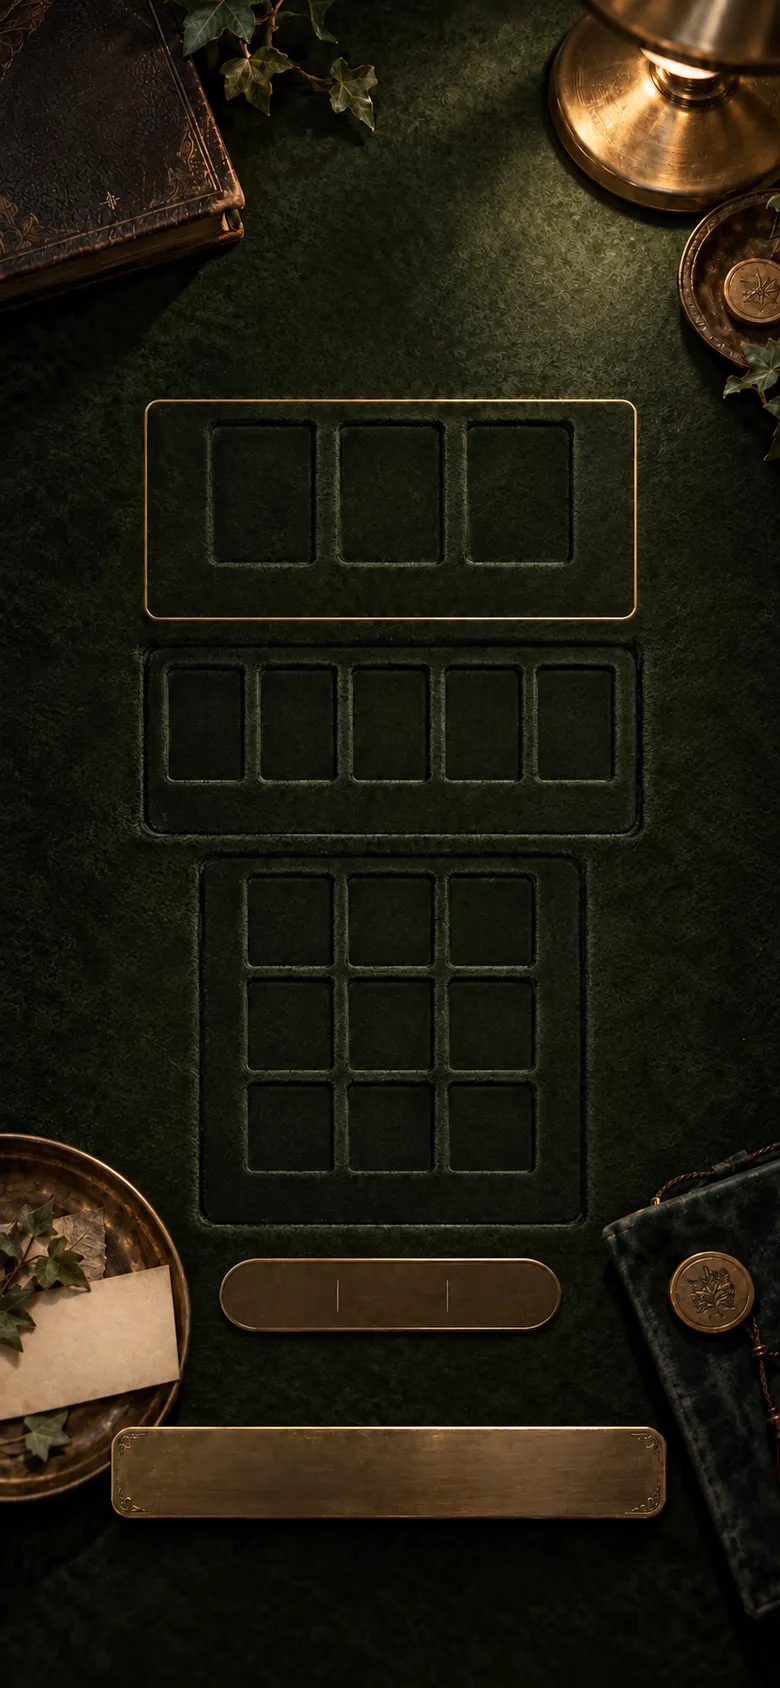
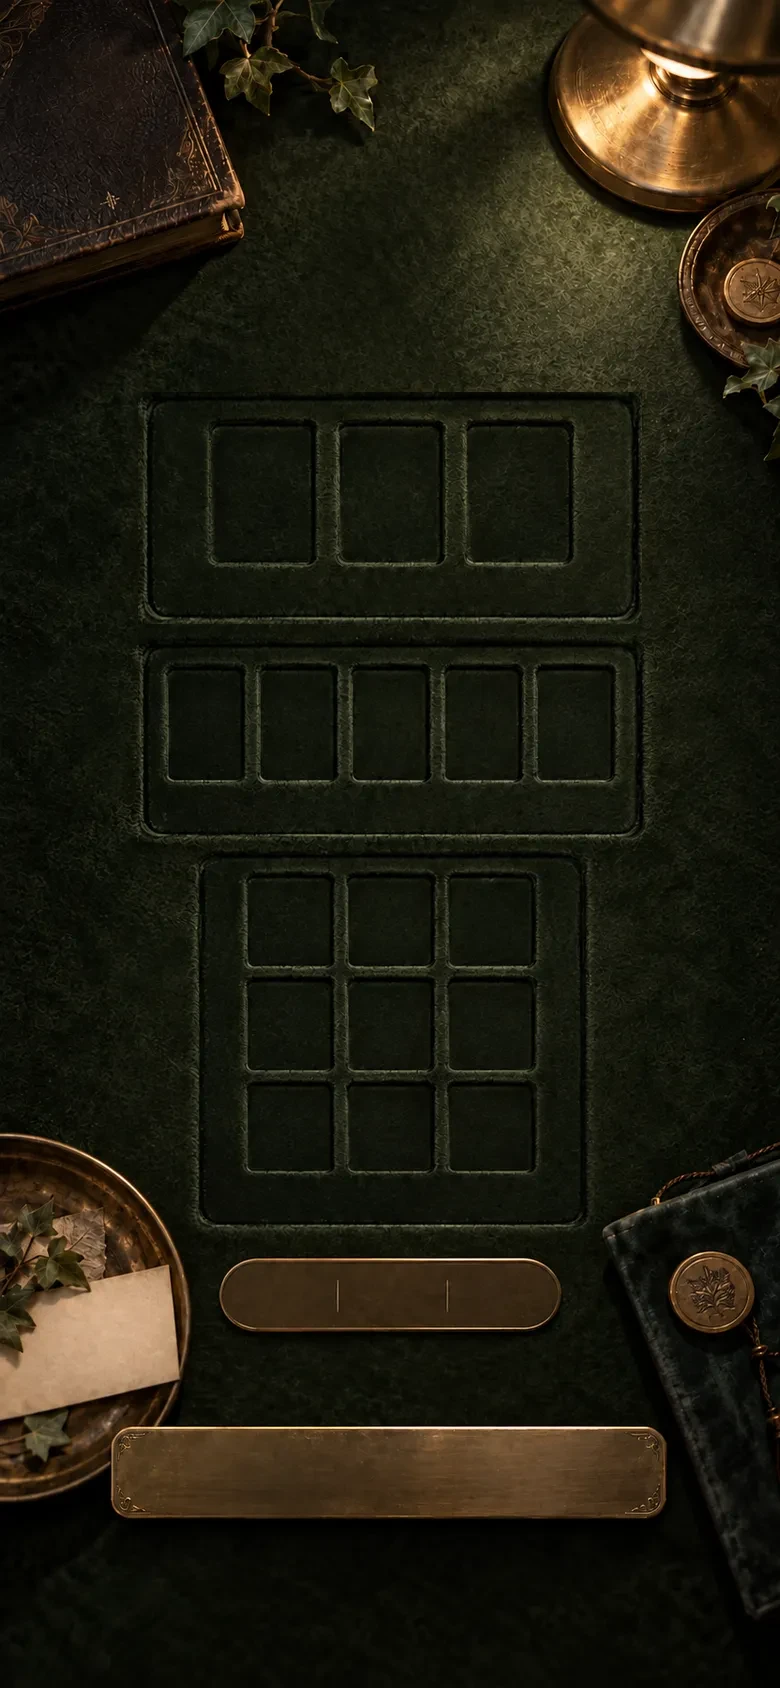
Mobile QA: flip tap queues until cards land; touch-action manipulation; textarea scrollbars hidden; tagline/counter fit; topic auto-detect from question; topic ornament erased; facts sheet paper field + close ×; spread plate baked gold rim removed; 9-card links clear of slots; deeper sheet action ro

Changed region(s): [[0.3385, 0.2156, 0.8308, 0.3697], [0.1846, 0.2156, 0.3077, 0.3697]]

diff --git a/app.js b/app.js
@@ -157,9 +157,9 @@ const qtext=(q,fb)=>esc(q||fb);
 function vLanding(){const m=M();const ok=S.q.trim().length>=4;
  const v=m?stage('01-landing',
   T_(195,193,'尚未说出的事',12.5,{cls:'c',st:'letter-spacing:.3em'})+
-  `<label class="sr" for="q">写下你想问的事</label><textarea id="q" class="A qin" maxlength="600" placeholder="写下你想问的事…" style="left:84px;top:356px;width:246px;height:150px;font:400 25px/1.55 var(--brush)">${esc(S.q)}</textarea>`+
-  A(320,505,`<span id="cnt">${S.q.length}</span>/600`,{cls:'en ink2',st:'transform:translateX(-100%);font-size:12px;font-style:italic'})+
-  T_(195,548,chalkText('有些答案，一直在等你。'),18,{cls:'c chalk'})+chalkSVG('M2 14 Q90 2 200 6',220,95,568,210,18,900)+
+  `<label class="sr" for="q">写下你想问的事</label><textarea id="q" class="A qin" maxlength="600" placeholder="写下你想问的事…" style="left:84px;top:356px;width:232px;height:140px;font:400 25px/1.55 var(--brush)">${esc(S.q)}</textarea>`+
+  A(312,494,`<span id="cnt">${S.q.length}</span>/600`,{cls:'en ink2',st:'transform:translateX(-100%);font-size:12px;font-style:italic'})+
+  T_(195,548,chalkText('有些答案，一直在等你。'),16,{cls:'c chalk'})+chalkSVG('M2 14 Q90 2 200 6',220,95,568,210,18,900)+
   A(103,656,'把问题压在桌上 <span aria-hidden="true">→</span>',{tag:'button',cls:'btn hit',w:184,h:44,st:'font-size:15px',at:`id="go" aria-disabled="${!ok}"`})+
   `<a class="A t c mu" href="#/ask" style="left:195px;top:712px;font-size:11px;border-bottom:1px dashed;letter-spacing:.14em">或者先借一句问法</a>`,{ch:{by:103,tabs:true}})
  :stage('01-landing',
@@ -170,10 +170,11 @@ function vLanding(){const m=M();const ok=S.q.trim().length>=4;
   `<a class="A t c mu" href="#/ask" style="left:803px;top:736px;font-size:12.5px;border-bottom:1px dashed;letter-spacing:.16em">或者先借一句问法</a>`,
   {ch:{bl:['36 张卡牌','无预设的未来','只有更清晰的你']}});
  markDrawn(v);
- const q=$('#q'),go=$('#go');q.addEventListener('input',()=>{S.q=q.value;$('#cnt').textContent=q.value.length;go.setAttribute('aria-disabled',q.value.trim().length<4);save()});
+ const q=$('#q'),go=$('#go');q.addEventListener('input',()=>{S.q=q.value;S.topicSet=false;$('#cnt').textContent=q.value.length;go.setAttribute('aria-disabled',q.value.trim().length<4);save()});
  go.onclick=()=>{if(q.value.trim().length<4){toast(q.value.trim()?'再多写几个字，让问题更具体一点':'先写下你想问的事');q.focus();!RM()&&q.animate([{transform:'translateX(-5px)'},{transform:'translateX(5px)'},{transform:'none'}],{duration:260});return}if(!RM())q.animate([{transform:'translateY(0)'},{transform:'translateY(-6px)',offset:.4},{transform:'none'}],{duration:380,easing:'cubic-bezier(.22,.61,.36,1)'});Sound.tap();setTimeout(()=>go2('#/topic'),RM()?0:400)};
 }
-function vTopic(){const m=M();
+const guessTopic=q=>{const K=[['career',/工作|事业|职业|老板|同事|面试|升职|跳槽|offer|公司|项目|创业|考试|学业/i],['wealth',/钱|财|投资|收入|理财|股|债|买房|存款|生意/],['decision',/选择|还是|要不要|该不该|去留|决定|搬家|出国/],['relationship',/感情|恋|婚|爱|他|她|伴侣|对象|分手|复合|暧昧|家人|朋友|关系/]];for(const[k,r]of K)if(r.test(q||''))return k;return null};
+function vTopic(){const m=M();if(!S.topicSet){const g=guessTopic(S.q);if(g&&T.some(t=>t.id===g)){S.topic=g;save()}}
  const tpl=()=>{const L=TPL.filter(t=>t.domain===S.topic);if(!L.length)return[];const o=(S.so||0)%L.length;return[0,1,2].map(i=>L[(o+i)%L.length]).filter((x,i,a)=>a.indexOf(x)===i)};
  const TD=m?{tiles:[[40,265,150,75],[203,265,147,75],[40,348,150,74],[203,348,147,74],[40,430,150,73],[203,430,147,73]],lbY:52,lbF:12.5,slips:[[92,537,223,34],[100,574,213,32],[108,610,205,34]],sF:11}
   :{tiles:[[489,281,167,112],[684,281,167,112],[489,413,167,112],[684,413,167,112],[489,545,167,112],[684,545,167,112]],lbY:74,lbF:14,slips:[[905,298,305,96],[930,421,276,74],[910,505,252,80]],sF:15};
@@ -196,7 +197,7 @@ function vTopic(){const m=M();
   A(560,712,'带着问题，继续 <span aria-hidden="true">→</span>',{tag:'button',cls:'btn hit',w:301,h:53,st:'font-size:19px',at:`id="go"`})+
   T_(708,786,'让一个清晰的问题，成为仪式的开始。',12.5,{cls:'c mu'}),{ch:{bl:['36 张卡牌','无预设的未来','只有更清晰的你']}});
  markDrawn(v);
- v.addEventListener('click',e=>{const b=e.target.closest('.tile');if(b){S.topic=b.dataset.id;save();$$('.tile').forEach(x=>x.setAttribute('aria-checked',x===b));$('#slips').innerHTML=slips();return}
+ v.addEventListener('click',e=>{const b=e.target.closest('.tile');if(b){S.topic=b.dataset.id;S.topicSet=true;save();$$('.tile').forEach(x=>x.setAttribute('aria-checked',x===b));$('#slips').innerHTML=slips();return}
   const s=e.target.closest('.slip');if(s){S.q=s.dataset.t;save();$('#qq').textContent=S.q;!RM()&&$('#qq').animate([{opacity:.2,transform:'translateY(-6px)'},{opacity:1,transform:'none'}],{duration:380,easing:'ease-out'})}});
  $('#facts')&&($('#facts').oninput=e=>{S.facts=e.target.value;$('#fcnt').textContent=S.facts.length;save()});
  $$('.swap').forEach(b=>b.onclick=()=>{S.so=(S.so||0)+3;save();$('#slips').innerHTML=slips();!RM()&&$$('#slips .slip').forEach((x,i)=>x.animate([{opacity:0,transform:'translateX(14px)'},{opacity:1,transform:'none'}],{duration:360,delay:i*60,easing:'ease-out',fill:'backwards'}))});
@@ -234,7 +235,7 @@ function vDraw(){if(!S.spread)return go2('#/spread');const sp=SPREADS[S.spread],
  const v=m?stage('04-draw',`<div id="stage" class="A" style="inset:0">${slotsH}</div>`+
    T_(318,180,chalkText('画圈洗牌'),15,{cls:'chalk',st:'transform:rotate(14deg)'})+chalkSVG('M70 10 Q-10 60 20 170 M14 160 L20 172 L28 162',260,40,158,80,180,200)+chalkSVG('M10 0 Q80 40 40 165 M34 155 L40 167 L48 157',240,300,190,80,180,500)+
    T_(195,503,'<span id="cnt">画圈洗牌</span>',16,{cls:'c chalk'})+chalkSVG('M0 6 Q60 -2 120 8',130,135,530,120,12,300)+
-   A(88,737,'替我洗牌',{tag:'button',cls:'btn hit',w:212,h:43,st:'font-size:16px;z-index:900',at:'id="act"'})+`<p class="A t backs" style="left:195px;top:704px;transform:translateX(-50%);font-size:11.5px;z-index:900"><a href="#/spread">‹ 更换牌阵</a><span>·</span><a href="#/">修改问题</a></p>`,{ch:{by:72,bfs:28,foot:true}})
+   A(88,737,'替我洗牌',{tag:'button',cls:'btn hit',w:212,h:43,st:'font-size:16px;z-index:900',at:'id="act"'})+`<p class="A t backs" style="left:195px;top:${S.spread==='nine'?716:704}px;transform:translateX(-50%);font-size:11.5px;z-index:900"><a href="#/spread">‹ 更换牌阵</a><span>·</span><a href="#/">修改问题</a></p>`,{ch:{by:72,bfs:28,foot:true}})
  :stage('04-draw',`<div id="stage" class="A" style="inset:0">${slotsH}</div>`+
    T_(880,82,'洗牌与抽牌',22,{cls:'c',st:'text-shadow:none;color:#2b2116;transform:translateX(-50%) rotate(-3deg);letter-spacing:.2em'})+T_(886,122,'静下心，让指尖带你找到答案。',13,{cls:'c',st:'text-shadow:none;color:#4a3b28;transform:translateX(-50%) rotate(-3deg)'})+
    A(979,212,'有些答案，<br>并不在远方，而在你愿意停下来的此刻。',{cls:'t',st:'font-size:12.5px;line-height:1.95'})+A(1207,262,'—— &nbsp;寂境 &nbsp;Stillrealm',{cls:'t',st:'transform:translateX(-100%);font-size:12px'})+
@@ -280,7 +281,7 @@ function vDraw(){if(!S.spread)return go2('#/spread');const sp=SPREADS[S.spread],
   b.spring(s.x+(s.w-cw*sc)/2,s.y+(s.h-ch*sc)/2,0,RM()?3000:260,.55);b.tz=0;b.zi=300;World.start()}
  act.onclick=()=>{if(phase==='shuffle'){if(RM())return toFan();let n=0;const it=setInterval(()=>{swirl=Math.min(2.5,swirl+.5);World.start();if(++n>14){clearInterval(it);setTimeout(toFan,450)}},60);return}
   if(phase==='fan'){const free=shuffle(bodies.filter(b=>b.placed==null&&!bodies.slice(0,m?18:16).includes(b)));let k=0;for(let i=0;i<N;i++){if(slots()[i].dataset.full)continue;const b=free[k++];setTimeout(()=>place(b,i),RM()?0:k*240)}return}
-  const ids=S.picked.slice(0,N);if(ids.length<N||ids.some(x=>!x))return;const rec={id:Date.now().toString(36),at:Date.now(),topic:S.topic,q:S.q,facts:S.facts,spread:S.spread,ids};
+  const ids=S.picked.slice(0,N);if(ids.length<N||ids.some(x=>!x)){if(!act._q&&$$('.slot[data-full]').length+N>N){act._q=1;act.classList.add('busy');const t0=Date.now(),w=setInterval(()=>{const r=S.picked.slice(0,N);if(r.length>=N&&!r.some(x=>!x)){clearInterval(w);act._q=0;act.classList.remove('busy');act.onclick()}else if(Date.now()-t0>3000){clearInterval(w);act._q=0;act.classList.remove('busy')}},80)}return}const rec={id:Date.now().toString(36),at:Date.now(),topic:S.topic,q:S.q,facts:S.facts,spread:S.spread,ids};
   sessionStorage.setItem('sr.current',JSON.stringify(rec));loading(()=>go2('#/reading/'+rec.id))};
  cleanup.push(()=>World.clear());
 }
@@ -429,7 +430,7 @@ function vHistory(){const hs=LS.get('history',[]),m=M();const fmt=t=>{const d=ne
     T_(g.cap[0],g.cap[1]+oy,capt(r).join('<br>'),13,{cls:'',st:'line-height:1.9;letter-spacing:.14em'})+`<button class="del t" data-del="${r.id}" style="left:${g.t[0]+g.t[2]-30}px;top:${g.t[1]+g.t[3]+10+oy}px" aria-label="删除这条记录">删去</button>`}});
  let path='';if(hs.length>1){const pts=hs.slice(0,m?3:4).map((r,i)=>m?[MD[i].t[0]+MD[i].t[2]/2,MD[i].t[1]+MD[i].t[3]+8]:[D[i].c[0]+D[i].c[2]+40,D[i].c[1]+D[i].c[3]/2]);
   path=`<svg class="A" style="left:0;top:0;width:${m?390:1440}px;height:${H}px;pointer-events:none" aria-hidden="true"><path d="M${pts.map(p=>p.join(' ')).join(' L')}" fill="none" stroke="rgba(240,236,224,.5)" stroke-width="1.4" stroke-dasharray="3 7" stroke-linecap="round"/></svg>`}
- const h=m?T_(195,172,'来路余痕',22,{cls:'c',st:'letter-spacing:.24em'})+T_(195,207,'每一次提问，都是你走过的痕迹。',10.5,{cls:'c mu'})+(hs.length?A(300,180,'清空',{tag:'button',cls:'btn',w:57,h:22,st:'font-size:12px;letter-spacing:.2em;border-radius:12px;box-shadow:inset 0 0 0 1px #8a6a3a;background:rgba(60,40,15,.6)',at:'id="clear"'}):'')+path+body
+ const h=m?T_(195,172,'来路余痕',22,{cls:'c',st:'letter-spacing:.24em'})+T_(195,207,'每一次提问，都是你走过的痕迹。',10.5,{cls:'c mu'})+(A(300,180,'清空',{tag:'button',cls:'btn',w:57,h:22,st:'font-size:12px;letter-spacing:.2em;border-radius:12px;box-shadow:inset 0 0 0 1px #8a6a3a;background:rgba(60,40,15,.6)',at:(hs.length?'':'disabled aria-disabled="true" ')+'id="clear"'}))+path+body
   :A(500,70,'来路余痕',{cls:'ink',st:'font-size:32px;letter-spacing:.14em;font-weight:500;transform:rotate(-3deg)'})+A(512,124,'那些提问过的问题，依然在照亮你。',{cls:'ink2',st:'font-size:13px;color:#4a3b28;transform:rotate(-3deg)'})+
    A(906,92,'我们走过的路，<br>从不会真正消失，<br>它们只是化作此刻更深的你。',{cls:'t',st:'font-size:12.5px;line-height:1.95'})+A(1167,170,'—— &nbsp;寂境 &nbsp;Stillrealm',{cls:'t',st:'transform:translateX(-100%);font-size:12px'})+
    A(1170,112,'<span aria-hidden="true">‹</span>回到牌桌',{tag:'a',cls:'btn hit',w:116,h:47,st:'font-size:13.5px;letter-spacing:.16em',at:'href="#/" id="hback"'})+(hs.length?A(1172,206,'<img src="assets/ic/doc.webp" alt="" style="width:14px;opacity:.8;vertical-align:-2px"> 清空全部记录',{tag:'button',cls:'t lkb',st:'font-size:12.5px;letter-spacing:.16em',at:'id="clear"'}):'')+path+body;
@@ -462,7 +463,7 @@ function vSettings(){const m=M(),vs=voices();
  const v=stage('10-sound',h,{ch:m?{by:100,foot:true,back:true}:{bl:['在细微之处，','收藏更安静的自己。']}});markDrawn(v);
  const knob=$('#knob'),kb=$('.kb',knob);let ka=-135+prefs.vol*270,kv=0,kraf=0;const kstep=()=>{const t=-135+prefs.vol*270,k=140,c=2*Math.sqrt(k)*.62,dt=1/60;kv+=(-k*(ka-t)-c*kv)*dt;ka+=kv*dt;if(RM()){ka=t;kv=0}kb.style.transform=`rotate(${ka}deg)`;if(Math.abs(ka-t)>.05||Math.abs(kv)>.05)kraf=requestAnimationFrame(kstep);else{kraf=0;kb.style.transform=`rotate(${t}deg)`}};cleanup.push(()=>cancelAnimationFrame(kraf));
  const setK=()=>{if(!kraf)kraf=requestAnimationFrame(kstep);knob.setAttribute('aria-valuenow',Math.round(prefs.vol*100));knob.setAttribute('aria-valuetext',Math.round(prefs.vol*100)+'%')};setK();
- let kid=null;knob.onpointerdown=e=>{kid=e.pointerId;knob.setPointerCapture(kid)};knob.onpointermove=e=>{if(e.pointerId!==kid)return;const r=knob.getBoundingClientRect();let a=Math.atan2(e.clientY-r.top-r.height/2,e.clientX-r.left-r.width/2)*180/Math.PI+90;if(a>180)a-=360;prefs.vol=Math.max(0,Math.min(1,(a+135)/270));setK();Sound.vol()};
+ let kid=null;knob.onpointerdown=e=>{kid=e.pointerId;knob.setPointerCapture(kid)};knob.onpointermove=e=>{if(e.pointerId!==kid)return;const r=knob.getBoundingClientRect();let a=Math.atan2(e.clientY-r.top-r.height/2,e.clientX-r.left-r.width/2)*180/Math.PI+90;if(a>180)a-=360;if(Math.abs(a)>140)return;prefs.vol=Math.max(0,Math.min(1,(a+135)/270));setK();Sound.vol()};
  knob.onpointerup=()=>{kid=null;savePrefs()};knob.addEventListener('wheel',e=>{e.preventDefault();prefs.vol=Math.max(0,Math.min(1,prefs.vol-Math.sign(e.deltaY)*.04));setK();Sound.vol();savePrefs()},{passive:false});knob.onkeydown=e=>{if(/Right|Up/.test(e.key))prefs.vol=Math.min(1,prefs.vol+.05);else if(/Left|Down/.test(e.key))prefs.vol=Math.max(0,prefs.vol-.05);else return;e.preventDefault();setK();Sound.vol();savePrefs()};
  const swf=(id,key,fn)=>{$('#'+id).onclick=e=>{prefs[key]=!prefs[key];e.currentTarget.setAttribute('aria-checked',prefs[key]);savePrefs();$$('.swl').forEach(l=>l.textContent=prefs[l.dataset.k]?'开':'关');fn&&fn()}};
  swf('amb','ambient',()=>{prefs.bgm=prefs.ambient;savePrefs();prefs.bgm?Sound.start():Sound.stop()});swf('tts','tts');swf('rm','reduce');
@@ -481,8 +482,8 @@ function closeDlg(){dlg.hidden=true;dlg.innerHTML='';const oc=dlg._oc;dlg._oc=nu
 dlg.addEventListener('click',e=>{if(e.target===dlg)closeDlg()});addEventListener('keydown',e=>{if(e.key==='Escape'){if(!dlg.hidden)closeDlg();else if(!$('#sheet').hidden)$('#sheet').hidden=true}});
 function ask(title,msg,ok='抹去'){return new Promise(res=>{const p=openDlg(`<h3 class="cfq">${title.split('|').map(x=>`<span class="nw">${esc(x)}</span>`).join('')}</h3>${msg?`<p class="cfm">${esc(msg)}</p>`:''}<div class="cfr"><button class="lk cfk" data-a="0" autofocus>留着</button><button class="bpill" data-a="1">${esc(ok)}</button></div>`,'cfm-p');
  p.onclick=e=>{const b=e.target.closest('[data-a]');if(!b)return;closeDlg();res(b.dataset.a==='1')}})}
-function factsDialog(){const p=openDlg(`<h3>补充已知事实</h3><p class="mu2">已经发生了什么？写下的事实会被织进完整故事里。</p><textarea id="fx" maxlength="600" placeholder="例如：上个月我们大吵了一次，之后他很少主动联系。">${esc(S.facts)}</textarea><p class="cnt"><span id="fxc">${S.facts.length}</span>/600</p><div class="drow"><button class="pill" data-a="1">放进纸条</button></div>`);
- const t=$('#fx',p);t.oninput=()=>{$('#fxc',p).textContent=t.value.length};p.onclick=e=>{if(e.target.closest('[data-a]')){S.facts=t.value;save();closeDlg();toast(S.facts?'事实已补充':'已清空补充事实')}}}
+function factsDialog(){const p=openDlg(`<button class="x fxx" aria-label="关闭" data-close>×</button><h3>补充已知事实</h3><p class="mu2">已经发生了什么？写下的事实会被织进完整故事里。</p><textarea id="fx" maxlength="600" placeholder="例如：上个月我们大吵了一次，之后他很少主动联系。">${esc(S.facts)}</textarea><p class="cnt"><span id="fxc">${S.facts.length}</span>/600</p><div class="drow"><button class="pill" data-a="1">放进纸条</button></div>`);
+ const t=$('#fx',p);t.oninput=()=>{$('#fxc',p).textContent=t.value.length};p.onclick=e=>{if(e.target.closest('[data-close]'))return closeDlg();if(e.target.closest('[data-a]')){S.facts=t.value;save();closeDlg();toast(S.facts?'事实已补充':'已清空补充事实')}}}
 function loading(next){if(RM())return next();const L=['正在辨认每张牌的显性含义…','正在把相邻的牌连成句子…','正在对照你的问题与位置…','故事的轮廓渐渐清楚了…'];
  const o=document.createElement('div');o.id='load';o.setAttribute('role','status');o.innerHTML=`<div class="ll">${L.map((l,i)=>`<p class="chalk" style="animation-delay:${i*520}ms">${chalkText(l,i*520)}</p>`).join('')}</div><button class="skipb">跳过 ›</button>`;document.body.append(o);window.OV&&OV.loading(o);requestAnimationFrame(()=>o.classList.add('drawn'));
  let done=false;const fin=()=>{if(done)return;done=true;clearTimeout(t);o.remove();next()};const t=setTimeout(fin,2500);o.onclick=fin;addEventListener('keydown',fin,{once:true})}
@@ -503,6 +504,7 @@ function readingSheet(rec,o={}){const R=interpret(rec),cs=R.cards,ro=!!o.ro;cons
  const foot=()=>`<footer>${ro?'<span class="mu2">已收藏 · 只读</span>':`<button class="lk" id="fav">收藏</button>`}<button class="lk" id="newq">换一个问题</button></footer>`;
  const render=()=>{sc.innerHTML=thumbs()+tabsH()+`<div class="pane" role="tabpanel">${pane()}</div>`+foot();sc.scrollTop=0;window.OV&&OV.sheet(sh,st,rec,R,ro)};
  const upd=()=>{const all=FQ.every((_,i)=>st.ans[i]&&String(st.ans[i]).trim());const t=$('#tell',sc);if(t){t.disabled=!all;t.title=all?'':'回答完每一个问题后才能展开'}};
+ new MutationObserver(()=>{if(M()&&sh.dataset.k==='15-deeper'){const d=$('.pane .drow',sc);if(d){sc.parentElement.appendChild(d);d.onclick=e=>sc.onclick&&sc.onclick(e)}}}).observe(sc,{childList:true});
  render();$('.x',sh).focus();$('.x',sh).onclick=()=>{sh.hidden=true};sh.onclick=e=>{if(e.target===sh)sh.hidden=true};
  sc.onclick=e=>{const t=e.target.closest('[data-t]');if(t){st.tab=t.dataset.t;render();return}
   const n=e.target.closest('[data-n]');if(n){st.i=Math.max(0,Math.min(cs.length-1,st.i+ +n.dataset.n));render();return}
@@ -534,7 +536,7 @@ function related(c){const sc=C.filter(x=>x!==c).map(x=>{let s=0,why=[];if(suit(x
 let gsel=17;
 function vGraph(sel){if(sel)gsel=sel;const m=M();
  const tabs=(x,y,fs)=>`<div class="gtab A" role="tablist" aria-label="图鉴视图" style="left:${x}px;top:${y}px;font-size:${fs}px"><a role="tab" aria-selected="false" href="#/atlas">全部卡牌</a><a role="tab" aria-selected="true" aria-current="page" href="#/graph">关系图谱</a></div>`;
- const G=m?{sx:6,sy:150,sw:378,sh:430,gx:24,gy:190,p:39,cw:35,ch:37,fs:6.5}:{sx:270,sy:188,sw:676,sh:667,gx:318,gy:216,p:99.6,cw:88,ch:94,fs:10.5};
+ const G=m?{sx:6,sy:164,sw:378,sh:400,gx:21,gy:184,p:59,cw:54,ch:56,fs:9}:{sx:270,sy:188,sw:676,sh:667,gx:318,gy:216,p:99.6,cw:88,ch:94,fs:10.5};
  const head=m?T_(195,92,'牌库图鉴',22,{cls:'c',st:'letter-spacing:.3em'})+tabs(195,124,11.5)
   :A(300,96,'牌库图鉴',{cls:'t',st:'font-size:30px;letter-spacing:.2em;line-height:1.2'})+T_(301,140,'卡牌关系',14,{st:'letter-spacing:.3em;line-height:1.4'})+tabs(301,168,13)+
    A(766,82,'让每张牌，<br>找到彼此的回声。',{cls:'ink',st:'font-size:14px;line-height:1.8;letter-spacing:.12em;transform:rotate(-4deg)'})+T_(963,66,chalkText('选择一张牌，查看它的关联。'),15,{cls:'chalk',st:'max-width:150px;white-space:normal;transform:rotate(-6deg)'})+
@@ -543,8 +545,8 @@ function vGraph(sel){if(sel)gsel=sel;const m=M();
   const pos=id=>{const i=id-1;return[G.gx+(i%6)*G.p+G.cw/2,G.gy+Math.floor(i/6)*G.p*(m?1:1.008)+G.ch/2]};const[sx,sy]=pos(gsel);
   const svg=`<svg class="A" style="left:0;top:0;overflow:visible;pointer-events:none" width="1" height="1" aria-hidden="true">${ids.map(id=>{const[x,y]=pos(id);return`<path class="gl2" d="M${sx} ${sy} L${x} ${y}"/>`}).join('')}</svg>`;
   const cells=C.map(x=>{const[px,py]=pos(x.id);return`<button class="gc A ${x.id===gsel?'on':ids.includes(x.id)?'rel':''}" data-g="${x.id}" aria-pressed="${x.id===gsel}" aria-label="${x.id} ${esc(zh(x))}" style="left:${px-G.cw/2}px;top:${py-G.ch/2}px;width:${G.cw}px;height:${G.ch}px;font-size:${G.fs}px"><span class="gn2">${x.id} ${esc(zh(x))}</span><img src="assets/cards/${pad(x.id)}.webp" alt="" loading="lazy"></button>`}).join('');
-  const side=m?A(268,192,`<p class="gmh">关联牌</p>${rel.slice(0,4).map(r=>`<button class="gmr" data-g="${r.x.id}"><img src="assets/cards/${pad(r.x.id)}.webp" alt=""><span>${r.x.id} ${esc(zh(r.x))}<small class="en">${esc(r.x.name)}</small></span></button>`).join('')}`,{cls:'gside m',w:96})+A(24,438,`<span class="gk on"></span>当前 <span class="gk rel"></span>关联`,{cls:'glg'})+
-   A(140,600,`<a href="#/card/${c.id}" aria-label="查看 ${esc(zh(c))} 牌义">${cardHTML(c,'m',64,96)}</a>`)+A(218,612,`<p class="gm1">${c.id} ${esc(zh(c))} <span class="en">${esc(c.name)}</span></p><p class="gm4">${esc(PH[c.id].p)}</p><a class="lk gm3" href="#/card/${c.id}">查看牌义 ›</a>`,{w:150})
+  const side=m?A(16,574,`<p class="gmh">关联</p>${rel.slice(0,4).map(r=>`<button class="gmr" data-g="${r.x.id}"><img src="assets/cards/${pad(r.x.id)}.webp" alt=""><span>${r.x.id} ${esc(zh(r.x))}<small class="en">${esc(r.x.name)}</small></span></button>`).join('')}`,{cls:'gside m mrow',w:358})+A(24,542,`<span class="gk on"></span>当前 <span class="gk rel"></span>关联`,{cls:'glg'})+
+   A(40,622,`<a href="#/card/${c.id}" aria-label="查看 ${esc(zh(c))} 牌义">${cardHTML(c,'m',64,96)}</a>`)+A(118,630,`<p class="gm1">${c.id} ${esc(zh(c))} <span class="en">${esc(c.name)}</span></p><p class="gm4">${esc(PH[c.id].p)}</p><a class="lk gm3" href="#/card/${c.id}">查看牌义 ›</a>`,{w:236})
    :A(981,186,`<a href="#/card/${c.id}" aria-label="查看 ${esc(zh(c))} 牌义">${cardHTML(c,'d',152,236)}</a>`)+T_(981,450,'相关卡牌',14,{st:'letter-spacing:.24em'})+
     `<ul class="grel A" style="left:981px;top:478px;width:236px">${rel.slice(0,4).map(r=>`<li><button data-g="${r.x.id}"><img src="assets/cards/${pad(r.x.id)}.webp" alt=""><b>${r.x.id} ${esc(zh(r.x))}</b><small>${esc(PH[r.x.id].p)}</small></button></li>`).join('')}</ul>`;
   $('#gwrap').innerHTML=A(G.sx,G.sy,'',{cls:'gsheet'+(m?' m':''),w:G.sw,h:G.sh})+svg+cells+side};

diff --git a/style.css b/style.css
@@ -545,3 +545,32 @@ a.A:hover>.card,.thc:hover .card,.gc:hover{transform:translateY(-1px)!important}
  #ab.m .fil button::after,#ab.m a#graph::after,#ab.m .del::after,#ab.m [aria-label="朗读"]::after,#sheet .tabs button::after,#sheet .x::after,#sheet .lk::after,#ab.m .gn::after,#ab.m .A>a[href^="#/"]:not(.acm)::after{content:"";position:absolute;left:50%;top:50%;width:max(100%,44px);height:max(100%,44px);transform:translate(-50%,-50%)}
  #sheet .tabs button{position:relative}
 }
+/* tap responsiveness: no double-tap-zoom wait, no tap flash */
+a,button,input,select,label,[role=switch],[role=tab],[role=radio]{touch-action:manipulation;-webkit-tap-highlight-color:transparent}
+/* ---- mobile QA pass ---- */
+.qin,#fx,#facts{scrollbar-width:none}.qin::-webkit-scrollbar,#fx::-webkit-scrollbar,#facts::-webkit-scrollbar{display:none}
+.m .slip span{-webkit-line-clamp:2;text-wrap:pretty!important;letter-spacing:.02em}
+.m .slip{font-size:10.5px!important;padding:0 6px!important}
+/* facts sheet: ink-on-paper field, no capsule, no grip */
+#fx{display:block;width:100%;min-height:110px;resize:none;background:transparent!important;border:0;border-radius:0;box-shadow:none!important;padding:6px 2px;color:#2b1f13;font:400 15px/1.85 var(--serif);background-image:repeating-linear-gradient(transparent 0 26.7px,rgba(90,64,34,.22) 26.7px 27.7px)!important;outline:none}
+#fx:focus-visible{caret-color:#6b3d14}
+.fxx{right:6px;top:-6px;left:auto!important;width:44px;height:44px;font-size:24px;color:#4a3420}
+/* deeper sheet (mobile): action row pinned to the sheet's baked brass button, outside the scrolling form */
+#ab.m #sheet[data-k="15-deeper"] .drow:not(.pane .drow){position:absolute;left:17px;top:51px;margin:0;width:0;height:0}
+/* sheets and dialogs sit above the bottom nav */
+#ab.m:has(#sheet:not([hidden])) ~ #tabs,body:has(#sheet:not([hidden])) #tabs{display:none!important}
+body:has(#dlg:not([hidden])) #tabs{display:none!important}
+/* graph (mobile): 6x6 tiles across the full sheet, legible labels, related row under the sheet */
+#ab.m .gc .gn2{font-size:9px!important;line-height:1.1;white-space:nowrap}
+#ab.m .gside.mrow{display:flex;align-items:center;gap:6px}
+#ab.m .gside.mrow .gmh{margin:0 4px 0 0;font-size:11px;letter-spacing:.2em;color:var(--brass-hi);writing-mode:vertical-rl}
+#ab.m .gside.mrow .gmr{flex:1;display:flex;align-items:center;gap:5px;min-height:44px;padding:2px 4px;font-size:11px;color:#efe4c8;text-align:left}
+#ab.m .gside.mrow .gmr img{width:22px;height:33px;object-fit:cover;border-radius:2px;box-shadow:0 2px 3px rgba(0,0,0,.5)}
+#ab.m .gside.mrow .gmr small{display:block;font-size:9px;opacity:.7}
+#ab.m ~ #sndb,.m #sndb,#sndb{box-shadow:0 0 0 2px rgba(12,9,5,.8),0 0 0 3px rgba(222,186,116,.35)!important}
+#ab.m .gside.m.mrow{flex-direction:row;border-left:0;padding-left:0;color:#efe4c8}
+#ab.m button.btn[disabled]{opacity:.5;color:rgba(239,228,200,.6)!important;cursor:default}
+/* history: 删去 legible, ≥44px hit */
+#ab.m .del{font-size:12px!important;color:#e6d3a8!important;letter-spacing:.14em;opacity:1!important}
+#ab.m #sheet[data-k="15-deeper"] .drow:not(.pane .drow) #tell{width:230px!important;height:35px!important;line-height:35px;padding:0;letter-spacing:.3em;font-size:14px!important}
+#ab.m #sheet[data-k="15-deeper"] .drow:not(.pane .drow) #skip2{top:500px!important;color:#5a4128!important;font-size:12px!important}
